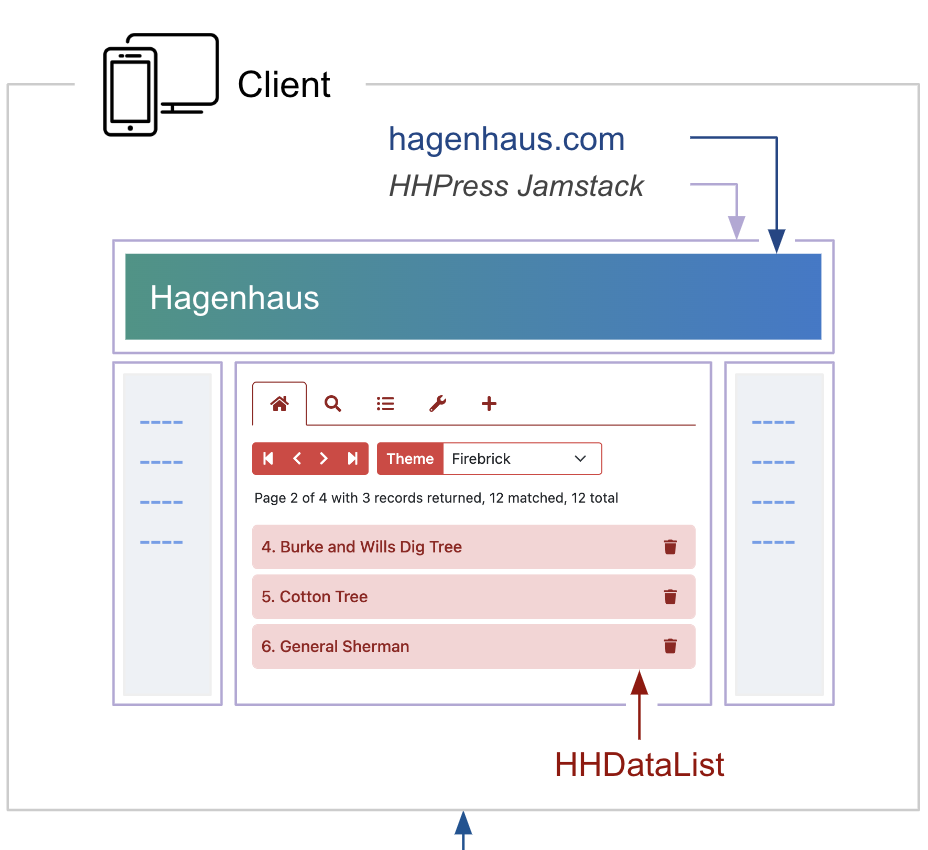
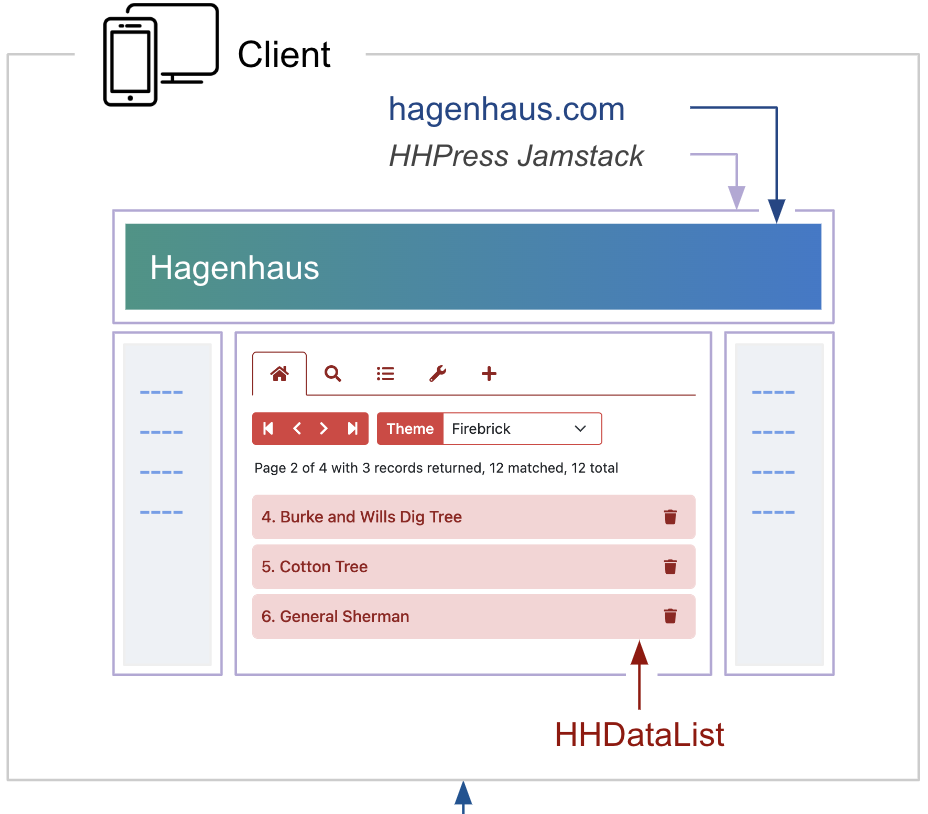
Added About and Contact.

diff --git a/en/base.html b/en/base.html
@@ -36,7 +36,8 @@
       <div class="collapse navbar-collapse" id="navbar-collapse">
         <ul class="navbar-nav me-auto">
           <li class="nav-item"><a id="mi-hhdatalist" class="nav-link follow" href="/en/hhdatalist/v0.0.2/"><span>HHDataList</span></a></li>
-          <li class="nav-item"><a id="mi-contact-me" class="nav-link follow" href="/en/contact-me/"><span>Contact Me</span></a></li>
+          <li class="nav-item"><a id="mi-about" class="nav-link follow" href="/en/about/"><span>About</span></a></li>
+          <li class="nav-item"><a id="mi-contact" class="nav-link follow" href="/en/contact/"><span>Contact</span></a></li>
         </ul>
         <ul class="navbar-nav">
           <li class="nav-item"><a id="mi-account" class="nav-link follow" href="/en/account/"><span id="account-icon"><i class="fas fa-user-alt"></i></span></a></li>

diff --git a/en/home/index.md b/en/home/index.md
@@ -6,13 +6,13 @@ hhdatalist: v0.0.2
 menuItem: mi-home
 ---
 
-# Portfolio
+# Content Creator for Software Developers
 
-From simple diagrams, guides, SDK docs, and REST API references to entire developer portals, I create concise content for software engineers. Here, for example, is a concise, responsive diagram of my webapp:
+From simple diagrams to entire portals, I create concise content for software developers. Below, for example, is a responsive diagram of my web application:
 
 <div class="mb-3">
   <div class="d-none d-md-block">
-    <div><img src="webapp-h.png" class="img-fluid d-block" height="386"; loading="lazy"></div>
+    <div><img src="webapp-h.png" class="img-fluid d-block" width="900" height="385"; loading="lazy"></div>
   </div>
   <div class="d-md-none">
     <div><img src="webapp-v1.png" class="img-fluid d-block" height="437"; loading="lazy"></div>
@@ -20,11 +20,11 @@ From simple diagrams, guides, SDK docs, and REST API references to entire develo
   </div>
 </div>
 
-My name is Matt Hagen, an experienced writer, trainer, software developer, and freelancer, and this website is my portfolio. [Contact me](/en/contact-me/) for help enabling your in-house and third-party developers leverage your cloud services and SDKs.
+The remainder of this page demonstrates my freelance services which include creating diagrams, guides, SDK & API references, tutorials, articles, portals, slides, and courseware for software professionals. [Contact Me](/en/contact-me/) to discuss your ideas and needs. Initial consultations, via phone or video conference, are free, and rates are reasonable.
 
 # HHDataList
 
-HHDataList is a highly configurable UI component for interacting with any REST API. Here is an instance:
+The diagram above includes a frontend component named HHDataList. Below is a live instance:
 
 <div id="players-datalist" class="hh-data-list mt-4"></div>
 <script>
@@ -33,11 +33,11 @@ HHDataList is a highly configurable UI component for interacting with any REST A
   new HHDataList(playersOptions);
 </script>
 
-I created HHDataList as an excuse to write the corresponding concise documentation: [HHDataList Docs](/en/hhdatalist/v0.0.2/).
+I created this highly configurable UI component (that interacts with any REST API) as an excuse to write and showcase the corresponding documentation. See my [HHDataList Docs](/en/hhdatalist/v0.0.2/).
 
 # Developer Guides
 
-I created the first [Developer Portal](https://docs.aylanetworks.com/) for [Ayla Networks](https://www.aylanetworks.com/), and much of my work remains intact except for small updates. These docs help developers set up and configure devices, developer environments, and test environments by providing clear explanations, diagrams, steps, and example code:
+I created the initial [Developer Portal](https://docs.aylanetworks.com/) for [Ayla Networks](https://www.aylanetworks.com/), an IoT Cloud company, and much of my original work continues to help developers set up and configure devices, dev environments, and test environments by providing clear explanations, diagrams, steps, and example code:
 
 * [Ayla Development Kit](https://docs.aylanetworks.com/docs/ayla-development-kit)
 * [Ayla Development Kit-ESP32C3 Module](https://docs.aylanetworks.com/docs/ayla-development-kit-esp32c3-module)
@@ -50,26 +50,45 @@ I created the first [Developer Portal](https://docs.aylanetworks.com/) for [Ayla
 
 # Diagrams
 
-## JavaScript Constructors
+Good diagrams focus attention on information rather than lines, shapes, and colors. Below are examples.
 
-[Diagrams of JavaScript constructors](https://medium.com/hagenhaus/diagrams-of-javascript-constructors-0e348b67dfee)
+### Constructors
 
-<p><img src="constructor1.png" class="img-fluid d-block" width="672" height="393"; loading="lazy"></p>
+In [Diagrams of JavaScript constructors](https://medium.com/hagenhaus/diagrams-of-javascript-constructors-0e348b67dfee), I explore the nuances of JS constructors by presenting an evolution of eleven diagrams based on a single pattern introduced in the first diagram and fully realized in the final one:
 
 <p><img src="constructor2.png" class="img-fluid d-block" width="672" height="393"; loading="lazy"></p>
 
-Lorem ipsum dolor sit amet, consectetur adipiscing elit, sed do eiusmod tempor incididunt ut labore et dolore magna aliqua. Ut enim ad minim veniam, quis nostrud exercitation ullamco laboris nisi ut aliquip ex ea commodo consequat. Duis aute irure dolor in reprehenderit in voluptate velit esse cillum dolore eu fugiat nulla pariatur. Excepteur sint occaecat cupidatat non proident, sunt in culpa qui officia deserunt mollit anim id est laborum.
+Instead of confronting the reader with all the information in this final diagram at once, the article uses intermediate diagrams to build understanding, focus attention, and reinforce the underlying pattern which relies on color and position. Note that putting `Function.prototype` in the top-left corner of the pattern uncrossed many wires.
 
-Lorem ipsum dolor sit amet, consectetur adipiscing elit, sed do eiusmod tempor incididunt ut labore et dolore magna aliqua. Ut enim ad minim veniam, quis nostrud exercitation ullamco laboris nisi ut aliquip ex ea commodo consequat. Duis aute irure dolor in reprehenderit in voluptate velit esse cillum dolore eu fugiat nulla pariatur. Excepteur sint occaecat cupidatat non proident, sunt in culpa qui officia deserunt mollit anim id est laborum.
+### Digital Twins
 
-Lorem ipsum dolor sit amet, consectetur adipiscing elit, sed do eiusmod tempor incididunt ut labore et dolore magna aliqua. Ut enim ad minim veniam, quis nostrud exercitation ullamco laboris nisi ut aliquip ex ea commodo consequat. Duis aute irure dolor in reprehenderit in voluptate velit esse cillum dolore eu fugiat nulla pariatur. Excepteur sint occaecat cupidatat non proident, sunt in culpa qui officia deserunt mollit anim id est laborum.
+In [Ayla Development Kit](https://docs.aylanetworks.com/docs/ayla-development-kit), I explain (to device programmers) how to configure a demo IoT device, connect it to the Ayla IoT Cloud service, prepare a GNU build environment, build a series of example programs, and run them on the device. I created several diagrams for the guide including the following:
 
-Lorem ipsum dolor sit amet, consectetur adipiscing elit, sed do eiusmod tempor incididunt ut labore et dolore magna aliqua. Ut enim ad minim veniam, quis nostrud exercitation ullamco laboris nisi ut aliquip ex ea commodo consequat. Duis aute irure dolor in reprehenderit in voluptate velit esse cillum dolore eu fugiat nulla pariatur. Excepteur sint occaecat cupidatat non proident, sunt in culpa qui officia deserunt mollit anim id est laborum.
+<p><img src="ayla-device-cloud-app.png" class="img-fluid d-block" loading="lazy"></p>
 
-Lorem ipsum dolor sit amet, consectetur adipiscing elit, sed do eiusmod tempor incididunt ut labore et dolore magna aliqua. Ut enim ad minim veniam, quis nostrud exercitation ullamco laboris nisi ut aliquip ex ea commodo consequat. Duis aute irure dolor in reprehenderit in voluptate velit esse cillum dolore eu fugiat nulla pariatur. Excepteur sint occaecat cupidatat non proident, sunt in culpa qui officia deserunt mollit anim id est laborum.
+This diagram illustrates that the Ayla IoT Cloud maintains, for each attached IoT device, a Digital Twin (i.e. state machine) composed of properties corresponding to those declared on the device and accessible to applications like Aura. The diagram also indicates that state changes may be initiated by applications (e.g. Blue_LED) or by devices (e.g. Blue_button).
 
-Lorem ipsum dolor sit amet, consectetur adipiscing elit, sed do eiusmod tempor incididunt ut labore et dolore magna aliqua. Ut enim ad minim veniam, quis nostrud exercitation ullamco laboris nisi ut aliquip ex ea commodo consequat. Duis aute irure dolor in reprehenderit in voluptate velit esse cillum dolore eu fugiat nulla pariatur. Excepteur sint occaecat cupidatat non proident, sunt in culpa qui officia deserunt mollit anim id est laborum.
+### Cloud Services
 
-Lorem ipsum dolor sit amet, consectetur adipiscing elit, sed do eiusmod tempor incididunt ut labore et dolore magna aliqua. Ut enim ad minim veniam, quis nostrud exercitation ullamco laboris nisi ut aliquip ex ea commodo consequat. Duis aute irure dolor in reprehenderit in voluptate velit esse cillum dolore eu fugiat nulla pariatur. Excepteur sint occaecat cupidatat non proident, sunt in culpa qui officia deserunt mollit anim id est laborum.
+In [Ayla Rule Service](https://docs.aylanetworks.com/docs/ayla-rule-service-ars-preview), I describe (for engineers and administrators) how the Ayla IoT Cloud translates device events into notifications. I created the following diagram as the centerpiece of the article:
 
-Lorem ipsum dolor sit amet, consectetur adipiscing elit, sed do eiusmod tempor incididunt ut labore et dolore magna aliqua. Ut enim ad minim veniam, quis nostrud exercitation ullamco laboris nisi ut aliquip ex ea commodo consequat. Duis aute irure dolor in reprehenderit in voluptate velit esse cillum dolore eu fugiat nulla pariatur. Excepteur sint occaecat cupidatat non proident, sunt in culpa qui officia deserunt mollit anim id est laborum.
+<p><img src="ayla-rule-service.png" class="img-fluid d-block" loading="lazy"></p>
+
+# REST APIs
+
+I have been creating and documenting various types of application programming interfaces for many years. These include REST APIs, libraries, CORBA, IoT modules, and hardware interfaces like GPIO.
+
+Regarding a commercial example, I created the initial [ReadyRemit Developer Portal](https://developer.readyremit.com/) which describes the SDKs and REST API for a cloud service enabling client applications to accomplish cross-border payments. This work included the following:
+
+1. Instantiated a [readme.com](https://readme.com/) instance.
+1. Themed the site.
+1. Organized the site into Developer Guide, API Reference, and Release Notes.
+1. Wrote the original Developer Guide (SDKs had not been created yet).
+1. Created an OpenAPI document describing ReadyRemit API operations.
+1. Worked with the engineering team to test and improve the API.
+1. Imported the YAML file into the API Reference section, and worked with ReadMe to debug issues.
+1. Created the first few release notes.
+
+Since I created it, the [ReadyRemit Developer Portal](https://developer.readyremit.com/) has evolved with an improved site theme, new SDK pages, expanded sections, and less attention to grammar. 
+
+See also the HHDataList [OpenApi](/en/hhdatalist/v0.0.2/openapi/) page.

diff --git a/en/about/index.md b/en/about/index.md
@@ -1,0 +1,23 @@
+---
+hasOtp: true
+menuItem: mi-about
+---
+
+# About
+
+# 2017-Present
+
+<p style="color:#e69500">Content Creator for Software Developers</p>
+
+# 2003-2017
+
+<p style="color:#e69500">Technical Trainer for Software Developers</p>
+
+# 1997-2003
+
+<p style="color:#e69500">Software Developer</p>
+
+# 1987-1997
+
+<p style="color:#e69500">Technical Writer and Software Developer</p>
+

diff --git a/en/contact/index.md b/en/contact/index.md
@@ -1,0 +1,10 @@
+---
+hasOtp: false
+menuItem: mi-contact
+---
+
+# Contact
+
+I am happy to hear from you!
+
+Contact me via [LinkedIn](https://www.linkedin.com/in/matthew-hagen-9051b9334/) or [Upwork](https://www.upwork.com/freelancers/~012d439e8f89131bbb?viewMode=1).
